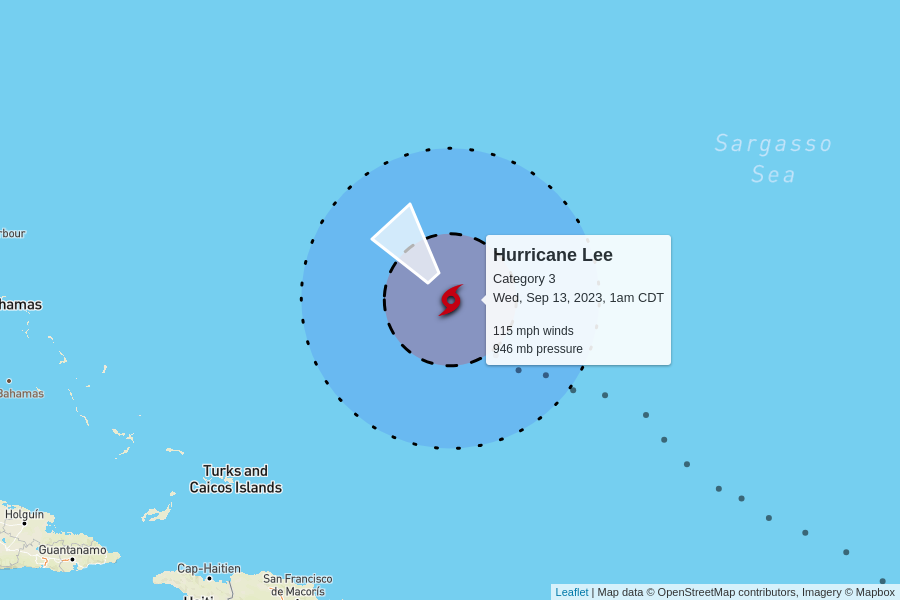
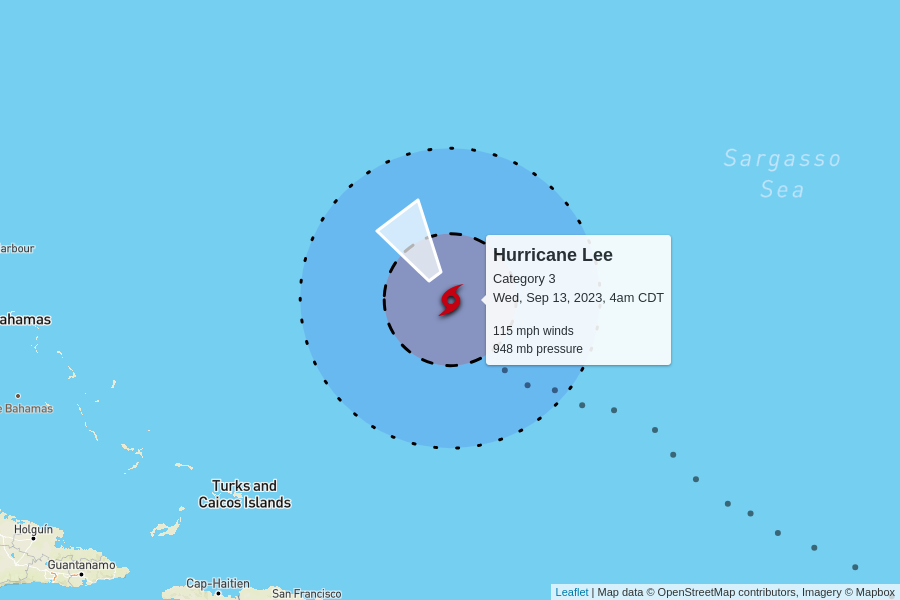
automatic update

diff --git a/docs/index.html b/docs/index.html
@@ -104,7 +104,7 @@
         <td colspan="6" class="storm category-3" >
           <h2>
             Hurricane Lee - Category 3
-            <p class="updated">last updated <span data-time>2023-09-13T06:00:00.000Z</span></p>
+            <p class="updated">last updated <span data-time>2023-09-13T09:00:00.000Z</span></p>
           </h2>
         </td>
       </tr>
@@ -120,11 +120,11 @@
       <tr>
         <td class="spacer"></td>
         <td>115 mph<br>0 mph since last update</td>
-        <td>946 mb<br>0 mb since last update</td>
+        <td>948 mb<br>+2 mb since last update</td>
         <td>
-          7 mph to the northwest
+          6 mph to the northwest
           <br/>
-          <span style="display: inline-block; font-size: 1.5em; transform: rotate(320deg);">↑</span>
+          <span style="display: inline-block; font-size: 1.5em; transform: rotate(325deg);">↑</span>
         </td>
         <td><a href="https://raw.githubusercontent.com/mgwalker/atlantic-hurricanes/main/data/csv/AL132023.csv">AL132023.csv</a></td>
         <td><a href="https://www.nhc.noaa.gov/archive/2023/LEE.shtml?">NHC advisories</a></td>
@@ -148,7 +148,7 @@
         <td colspan="6" class="storm category-1" >
           <h2>
             Hurricane Margot - Category 1
-            <p class="updated">last updated <span data-time>2023-09-13T03:00:00.000Z</span></p>
+            <p class="updated">last updated <span data-time>2023-09-13T09:00:00.000Z</span></p>
           </h2>
         </td>
       </tr>
@@ -163,8 +163,8 @@
       </tr>
       <tr>
         <td class="spacer"></td>
-        <td>85 mph<br>+5 mph since last update</td>
-        <td>975 mb<br>-2 mb since last update</td>
+        <td>85 mph<br>0 mph since last update</td>
+        <td>975 mb<br>0 mb since last update</td>
         <td>
           12 mph to the north
           <br/>
